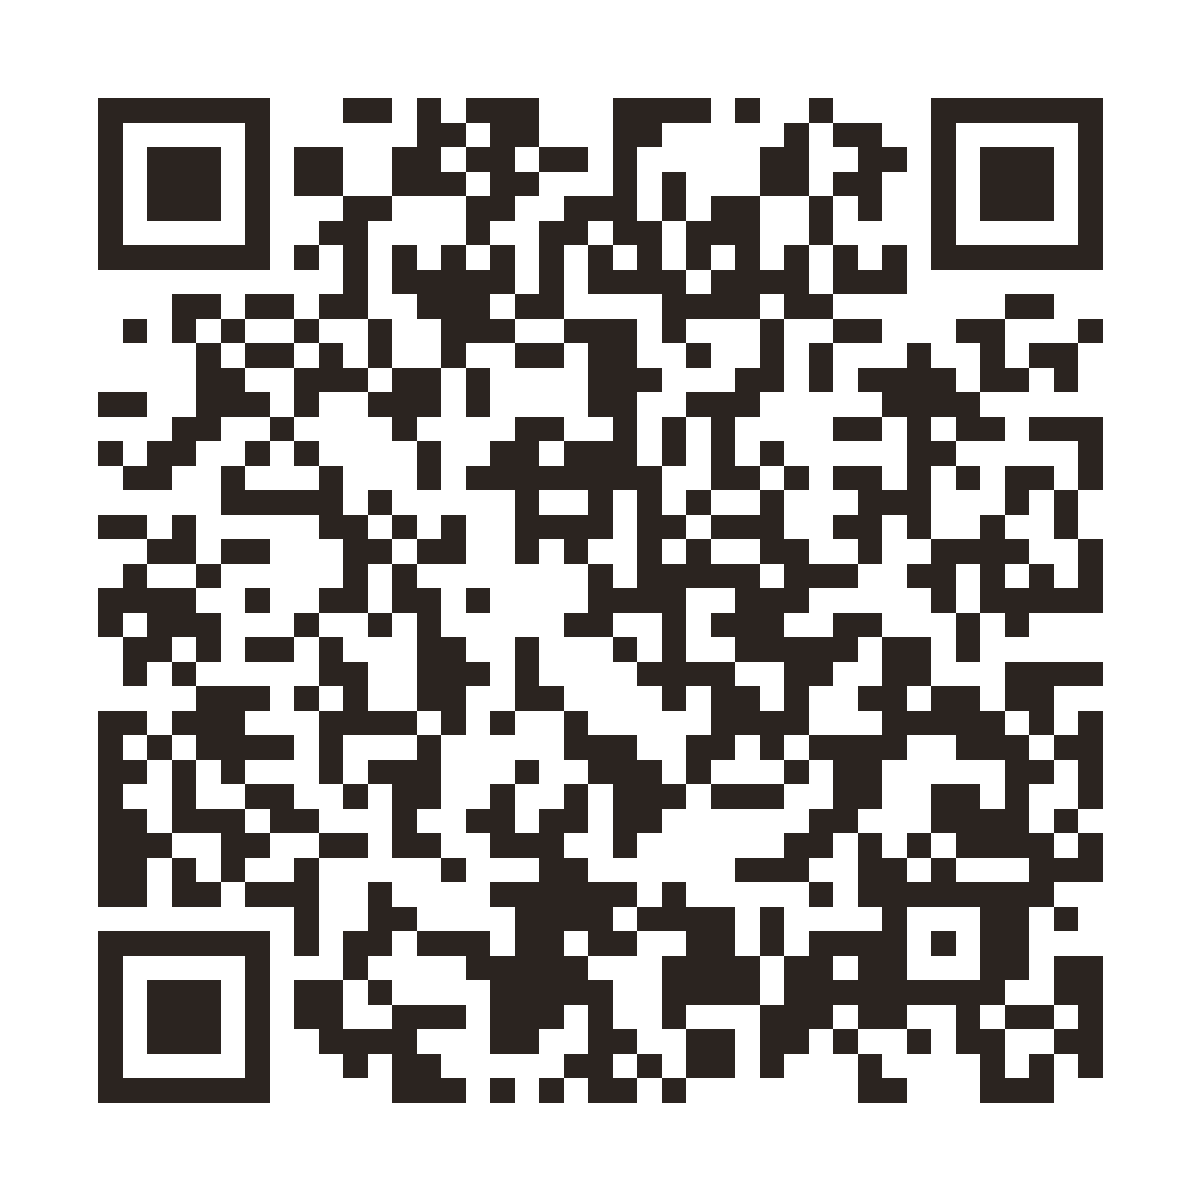
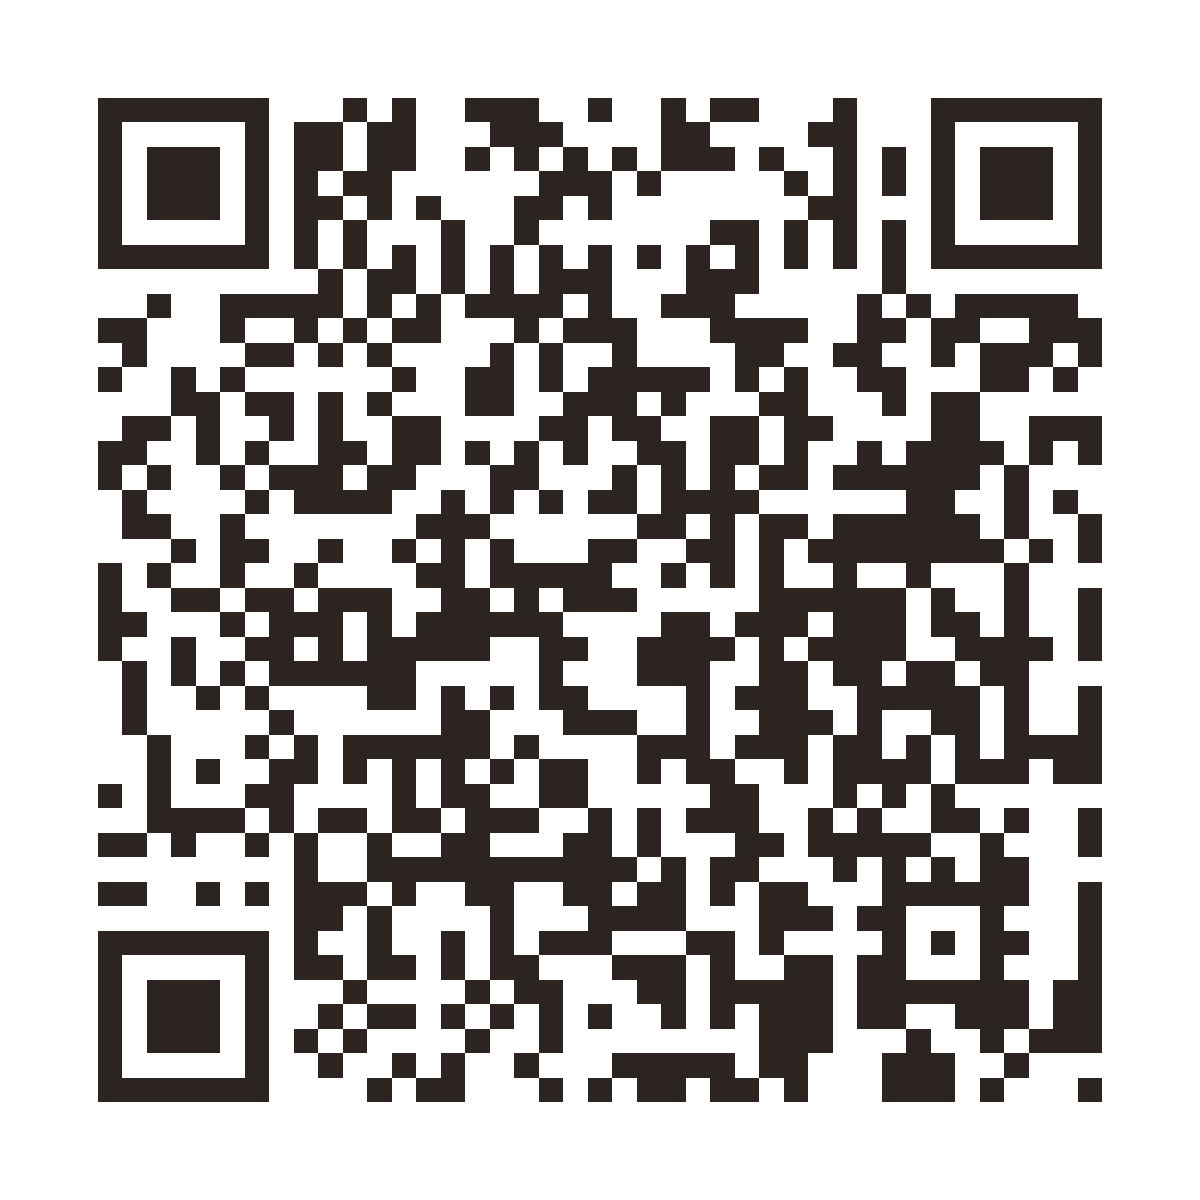
Publicar Mi Taller con el enlace y los códigos QR de la organización

Changed region(s): [[0.0617, 0.0617, 0.925, 0.925]]

diff --git a/aplicativo/js/pantallas/ayuda.js b/aplicativo/js/pantallas/ayuda.js
@@ -4,7 +4,7 @@ import { dibujo } from '../utilidades/iconos.js';
 import { puedeInstalar, esIphone, instalar, instalada } from '../utilidades/pwa.js';
 
 // Dirección pública de la app (la misma del código QR)
-const URL_APP = 'https://dayanaruth.github.io/proyecto-textil/';
+const URL_APP = 'https://tallerdigitalberk.github.io/proyecto-textil/';
 
 const pasos = (lista) => `<ol class="pasos-ayuda">${lista.map((p) => `<li>${p}</li>`).join('')}</ol>`;
 const ir = (ruta, texto) => `<a class="btn btn-secundario btn-chico" href="${ruta}">${texto} ▶</a>`;
@@ -76,7 +76,7 @@ export function mostrar(main) {
     <dialog class="dialogo dialogo-qr" id="dialogo-qr">
       <h2>Escanea con la cámara</h2>
       <img src="img/qr-mi-taller.svg" alt="Código QR para abrir Mi Taller" width="320" height="320">
-      <p>o escribe: <b>dayanaruth.github.io/proyecto-textil</b></p>
+      <p>o escribe: <b>${URL_APP.slice('https://'.length, -1)}</b></p>
       <button type="button" class="btn btn-principal btn-ancho" id="cerrar-qr">Listo</button>
     </dialog>
     <p class="ayuda">Toca una pregunta para ver la respuesta.</p>

diff --git a/aplicativo/sw.js b/aplicativo/sw.js
@@ -3,7 +3,7 @@
 // actualizar la app nunca borra los datos de la persona.
 
 // ⚠ Cambiar VERSION cada vez que se publique un cambio (así el celular se actualiza)
-const VERSION = 'mi-taller-v59';
+const VERSION = 'mi-taller-v60';
 
 const ARCHIVOS = [
   './',

diff --git a/README.md b/README.md
@@ -2,7 +2,7 @@
 
 Aplicación web progresiva (PWA) de apoyo para estudiantes de Corte y Confección del CEA "Man Césped" (Cochabamba, Bolivia). Proyecto Integrador de la carrera de Sistemas Informáticos, 2026.
 
-**Abrir la app:** https://dayanaruth.github.io/proyecto-textil/
+**Abrir la app:** https://tallerdigitalberk.github.io/proyecto-textil/
 
 ## Qué hace
 1. **Moldes:** pide las medidas una por una, con dibujos, y traza el molde paso a paso. Se puede imprimir en tamaño real.
